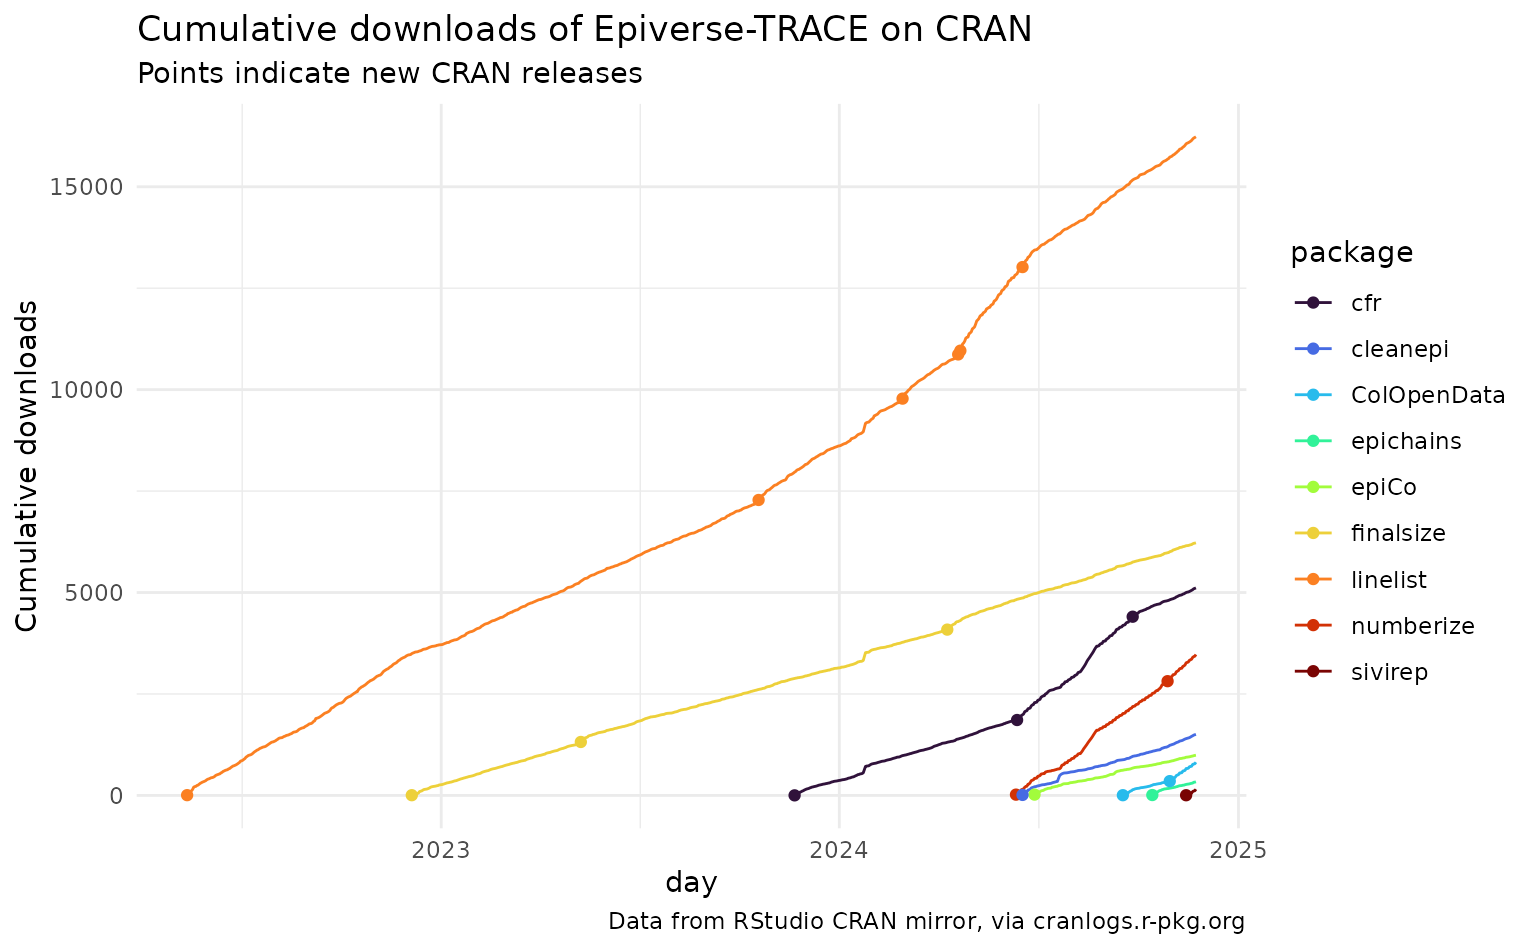
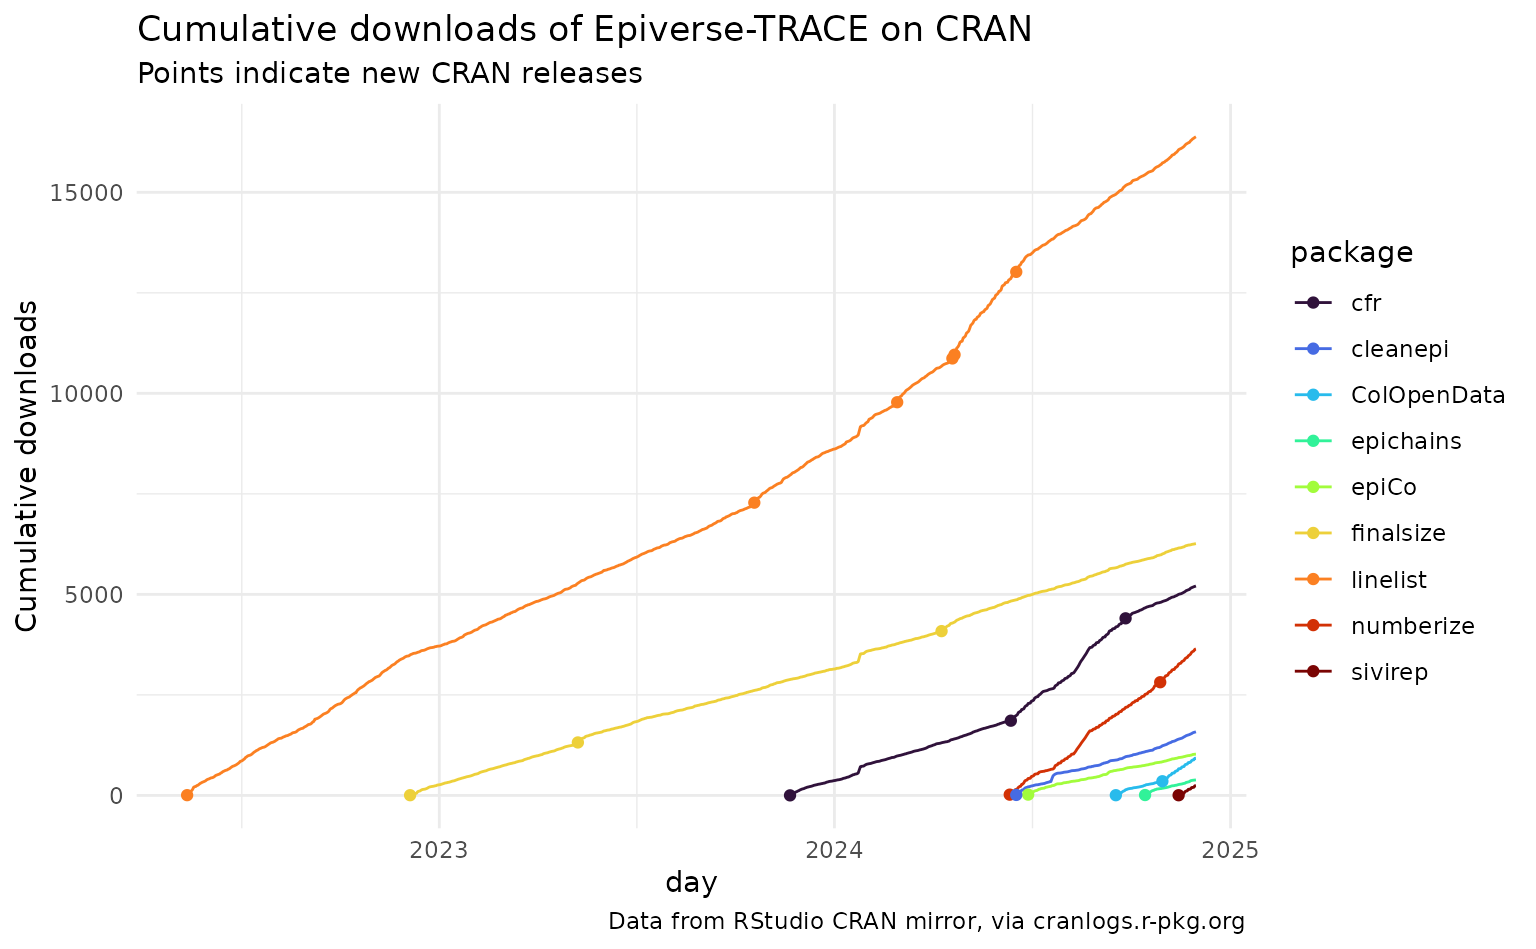
Deploying to gh-pages from @ epiverse-trace/etstats@837d4e0b162b3abe38016d001160b2c3b7b32ac5 🚀

diff --git a/articles/cran-statistics.html b/articles/cran-statistics.html
@@ -74,7 +74,7 @@
 
       <h1>CRAN statistics</h1>
             
-            <h4 data-toc-skip class="date">2024-11-25</h4>
+            <h4 data-toc-skip class="date">2024-12-02</h4>
       
       <small class="dont-index">Source: <a href="https://github.com/epiverse-trace/etstats/blob/main/vignettes/cran-statistics.Rmd" class="external-link"><code>vignettes/cran-statistics.Rmd</code></a></small>
       <div class="d-none name"><code>cran-statistics.Rmd</code></div>
@@ -94,7 +94,7 @@
 <li><a href="https://cran.r-project.org/package=linelist" class="external-link">linelist</a></li>
 <li><a href="https://cran.r-project.org/package=finalsize" class="external-link">finalsize</a></li>
 </ul>
-<p>In total, Epiverse-TRACE packages on CRAN have been downloaded 34844
+<p>In total, Epiverse-TRACE packages on CRAN have been downloaded 35652
 times.</p>
 <p>Below is a visualization of the breakdown of this grand total by
 package over time.</p>
@@ -111,61 +111,61 @@ package over time.</p>
 <td align="left">finalsize</td>
 <td align="right">260</td>
 <td align="right">2881</td>
-<td align="right">3085</td>
+<td align="right">3121</td>
 </tr>
 <tr class="even">
 <td align="left">linelist</td>
 <td align="right">3712</td>
 <td align="right">4898</td>
-<td align="right">7622</td>
+<td align="right">7771</td>
 </tr>
 <tr class="odd">
 <td align="left">cfr</td>
 <td align="right">NA</td>
 <td align="right">364</td>
-<td align="right">4750</td>
+<td align="right">4844</td>
 </tr>
 <tr class="even">
 <td align="left">ColOpenData</td>
 <td align="right">NA</td>
 <td align="right">NA</td>
-<td align="right">817</td>
+<td align="right">925</td>
 </tr>
 <tr class="odd">
 <td align="left">cleanepi</td>
 <td align="right">NA</td>
 <td align="right">NA</td>
-<td align="right">1504</td>
+<td align="right">1582</td>
 </tr>
 <tr class="even">
 <td align="left">epiCo</td>
 <td align="right">NA</td>
 <td align="right">NA</td>
-<td align="right">990</td>
+<td align="right">1026</td>
 </tr>
 <tr class="odd">
 <td align="left">epichains</td>
 <td align="right">NA</td>
 <td align="right">NA</td>
-<td align="right">336</td>
+<td align="right">385</td>
 </tr>
 <tr class="even">
 <td align="left">numberize</td>
 <td align="right">NA</td>
 <td align="right">NA</td>
-<td align="right">3473</td>
+<td align="right">3641</td>
 </tr>
 <tr class="odd">
 <td align="left">sivirep</td>
 <td align="right">NA</td>
 <td align="right">NA</td>
-<td align="right">152</td>
+<td align="right">242</td>
 </tr>
 <tr class="even">
 <td align="left">Total</td>
 <td align="right">3972</td>
 <td align="right">8143</td>
-<td align="right">22729</td>
+<td align="right">23537</td>
 </tr>
 </tbody>
 </table></main>

diff --git a/articles/github-statistics.html b/articles/github-statistics.html
@@ -74,7 +74,7 @@
 
       <h1>GitHub statistics</h1>
             
-            <h4 data-toc-skip class="date">2024-11-25</h4>
+            <h4 data-toc-skip class="date">2024-12-02</h4>
       
       <small class="dont-index">Source: <a href="https://github.com/epiverse-trace/etstats/blob/main/vignettes/github-statistics.Rmd" class="external-link"><code>vignettes/github-statistics.Rmd</code></a></small>
       <div class="d-none name"><code>github-statistics.Rmd</code></div>
@@ -85,7 +85,7 @@
 <div class="section level2">
 <h2 id="github-followers">GitHub followers<a class="anchor" aria-label="anchor" href="#github-followers"></a>
 </h2>
-<p>Our Epiverse-TRACE GitHub organization currently has 167
+<p>Our Epiverse-TRACE GitHub organization currently has 176
 followers.</p>
 </div>
 <div class="section level2">
